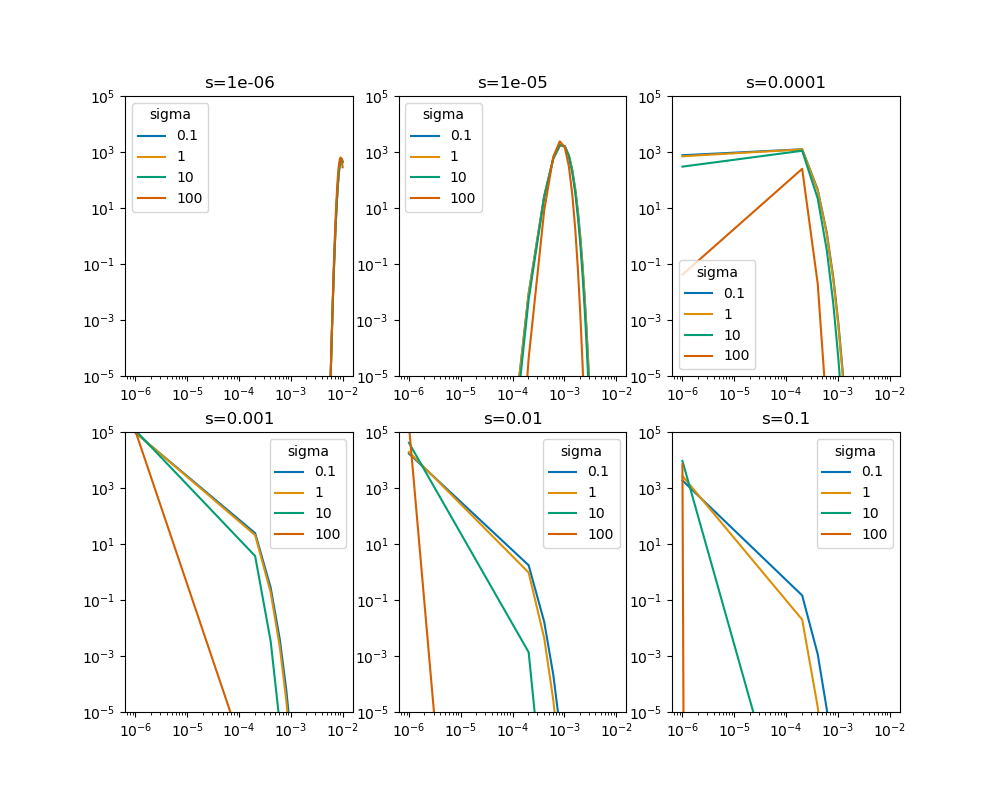
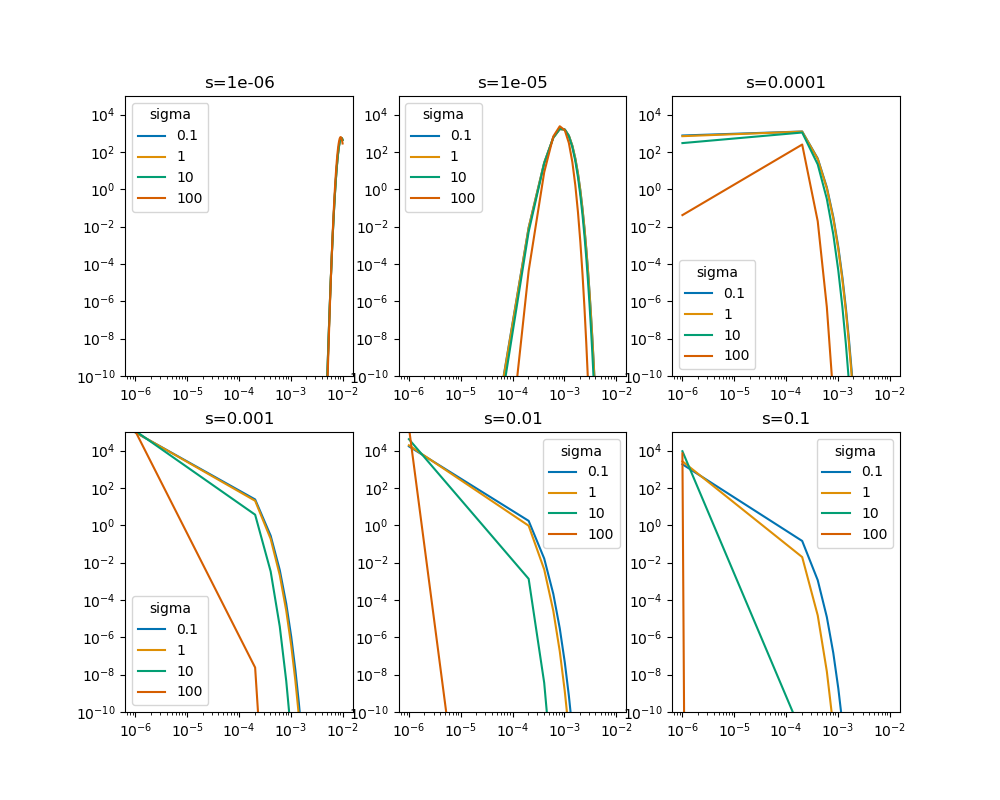
add axis limits for sfs plots

diff --git a/theory/numerics_snakemake/plot_sfs.py b/theory/numerics_snakemake/plot_sfs.py
@@ -28,7 +28,8 @@ def main():
     parser = argparse.ArgumentParser()
     parser.add_argument("--filename", type=str, help="name of input file", default="cleaned_data")
     parser.add_argument("--dim", type=int, help="dimension, default is 1", choices=[1, 2], default=1)
-    #parser.add_argument("--calc_error", action='store_true')
+    parser.add_argument("--ymin",type=float,help="ymin for sfs plots",default=1e-5)
+    parser.add_argument("--ymax", type=float, help="ymax for sfs plots", default=1e5)
     parser.add_argument("--pt",type=str,help="polynomial type to use",default="2_1")
     parser.add_argument("--s_list", type=list, help="values of selection coefficient, should have 6 values",default = [1e-6, 1e-5, 1e-4, 1e-3, 1e-2, 1e-1])
     parser.add_argument("--sigma_list",type=list,help="values of sigma",default=[0.1,1,10,100])
@@ -49,7 +50,7 @@ def main():
     axs[0,0].set_title("s="+str(s_vals[0]))
     axs[0,0].set_xscale("log")
     axs[0, 0].set_yscale("log")
-    axs[0, 0].set_ylim(1e-5, 1e5)
+    axs[0, 0].set_ylim(args.ymin, args.ymax)
     colors=sns.color_palette("colorblind",len(sigma_vals_plot))
     for i in range(len(sigma_vals_plot)):
         axs[0,0].plot(x_range,gamma.pdf(x_range,
@@ -61,7 +62,7 @@ def main():
     axs[0, 1].set_title("s=" + str(s_vals[1]))
     axs[0, 1].set_xscale("log")
     axs[0, 1].set_yscale("log")
-    axs[0, 1].set_ylim(1e-5, 1e5)
+    axs[0, 1].set_ylim(args.ymin, args.ymax)
     for i in range(len(sigma_vals_plot)):
         axs[0, 1].plot(x_range, gamma.pdf(x_range,
                                           a=rate_p(sigma=sigma_vals_plot[i], s=s_vals[1], sigma_vals=data['sigma'],
@@ -74,7 +75,7 @@ def main():
     axs[0, 2].set_title("s=" + str(s_vals[2]))
     axs[0, 2].set_xscale("log")
     axs[0, 2].set_yscale("log")
-    axs[0, 2].set_ylim(1e-5, 1e5)
+    axs[0, 2].set_ylim(args.ymin, args.ymax)
     for i in range(len(sigma_vals_plot)):
         axs[0, 2].plot(x_range, gamma.pdf(x_range,
                                           a=rate_p(sigma=sigma_vals_plot[i], s=s_vals[2], sigma_vals=data['sigma'],
@@ -87,7 +88,7 @@ def main():
     axs[1, 0].set_title("s=" + str(s_vals[3]))
     axs[1, 0].set_xscale("log")
     axs[1, 0].set_yscale("log")
-    axs[1, 0].set_ylim(1e-5, 1e5)
+    axs[1, 0].set_ylim(args.ymin, args.ymax)
     for i in range(len(sigma_vals_plot)):
         axs[1,0].plot(x_range, gamma.pdf(x_range,
                                           a=rate_p(sigma=sigma_vals_plot[i], s=s_vals[3], sigma_vals=data['sigma'],
@@ -100,7 +101,7 @@ def main():
     axs[1, 1].set_title("s=" + str(s_vals[4]))
     axs[1, 1].set_xscale("log")
     axs[1, 1].set_yscale("log")
-    axs[1, 1].set_ylim(1e-5,1e5)
+    axs[1, 1].set_ylim(args.ymin, args.ymax)
     for i in range(len(sigma_vals_plot)):
         axs[1, 1].plot(x_range, gamma.pdf(x_range,
                                           a=rate_p(sigma=sigma_vals_plot[i], s=s_vals[4], sigma_vals=data['sigma'],
@@ -113,7 +114,7 @@ def main():
     axs[1, 2].set_title("s=" + str(s_vals[5]))
     axs[1, 2].set_xscale("log")
     axs[1, 2].set_yscale("log")
-    axs[1, 2].set_ylim(1e-5,1e5)
+    axs[1, 2].set_ylim(args.ymin, args.ymax)
     for i in range(len(sigma_vals_plot)):
         axs[1, 2].plot(x_range, gamma.pdf(x_range,
                                           a=rate_p(sigma=sigma_vals_plot[i], s=s_vals[5], sigma_vals=data['sigma'],
